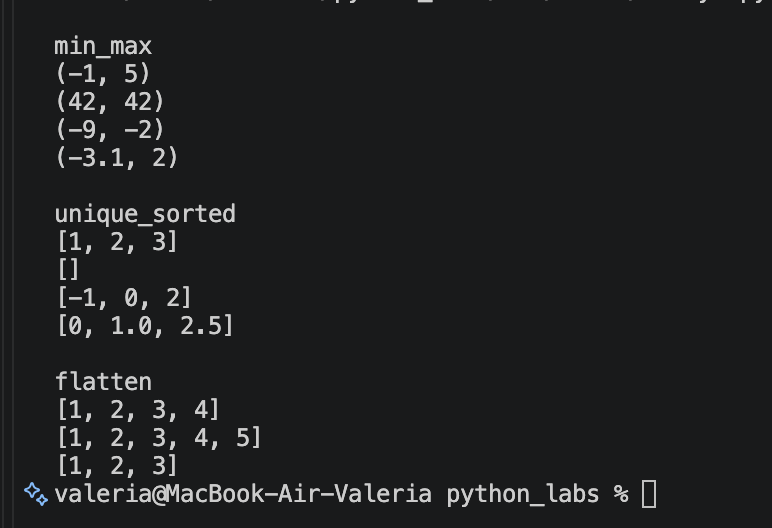
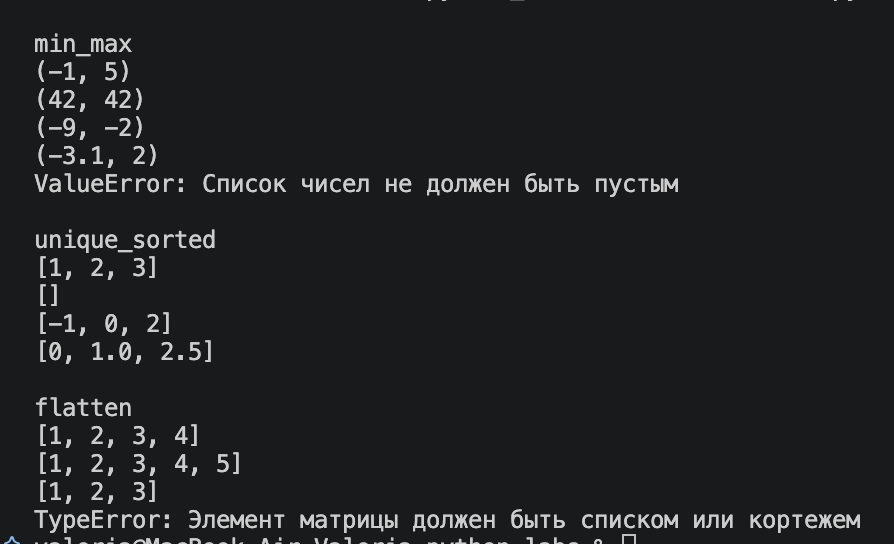
.

diff --git a/src/lab02/arrays.py b/src/lab02/arrays.py
@@ -1,13 +1,13 @@
 def min_max(nums: list[float | int]) -> tuple[float | int, float | int]:
     # Проверяем список на пустоту
-    if len(nums) == 0:
-        raise ValueError
+    if not nums:
+        raise ValueError("Список чисел не должен быть пустым")
 
     minimum = nums[0]
     maximum = nums[0]
 
-    # Ищем минимальное и максимальное значение
-    for x in nums:
+    # Ищем минимальное и максимальное значения
+    for x in nums[1:]:
         if x < minimum:
             minimum = x
         if x > maximum:
@@ -17,36 +17,34 @@ def min_max(nums: list[float | int]) -> tuple[float | int, float | int]:
 
 
 def unique_sorted(nums: list[float | int]) -> list[float | int]:
-    result = []  # Список для уникальных чисел
+    result = []
 
-    # Добавляем только неповторяющиеся числа
+    # Добавляем только уникальные числа
     for x in nums:
         if x not in result:
             result.append(x)
 
     # Сортируем список вручную
     for i in range(len(result)):
-        for j in range(i + 1, len(result)):
-            if result[i] > result[j]:
-                result[i], result[j] = result[j], result[i]
+        for j in range(len(result) - 1 - i):
+            if result[j] > result[j + 1]:
+                result[j], result[j + 1] = result[j + 1], result[j]
 
     return result
 
 
 def flatten(mat: list[list | tuple]) -> list:
-    result = []  # Новый список для элементов
+    result = []
 
-    # Проверяем каждую строку
+    # Проверяем каждую строку матрицы
     for row in mat:
         if not isinstance(row, (list, tuple)):
-            raise TypeError
+            raise TypeError("Элемент матрицы должен быть списком или кортежем")
 
-        # Добавляем элементы строки в общий список
         for x in row:
             result.append(x)
 
     return result
-
 
 print('\nmin_max')
 print(min_max([3, -1, 5, 5, 0]))
@@ -54,6 +52,10 @@ print(min_max([42]))
 print(min_max([-5, -2, -9]))
 print(min_max([1.5, 2, 2.0, -3.1]))
 
+try:
+    min_max([])
+except ValueError as e:
+    print(f"ValueError: {e}")
 
 print('\nunique_sorted')
 print(unique_sorted([3, 1, 2, 1, 3]))
@@ -61,8 +63,13 @@ print(unique_sorted([]))
 print(unique_sorted([-1, -1, 0, 2, 2]))
 print(unique_sorted([1.0, 1, 2.5, 2.5, 0]))
 
-
 print('\nflatten')
 print(flatten([[1, 2], [3, 4]]))
 print(flatten([[1, 2], (3, 4, 5)]))
 print(flatten([[1], [], [2, 3]]))
+
+try:
+    flatten([[1, 2], "ab"])
+except TypeError as e:
+    print(f"TypeError: {e}")
+

diff --git a/src/lab02/matrix.py b/src/lab02/matrix.py
@@ -58,14 +58,30 @@ print(transpose([[1], [2], [3]]))
 print(transpose([[1, 2], [3, 4]]))
 print(transpose([]))
 
+try:
+    transpose([[1, 2], [3]])
+except ValueError as e:
+    print(f"ValueError: {e}")
+
 
 print("\nrow_sums:")
 print(row_sums([[1, 2, 3], [4, 5, 6]]))
 print(row_sums([[-1, 1], [10, -10]]))
 print(row_sums([[0, 0], [0, 0]]))
 
+try:
+    row_sums([[1, 2], [3]])
+except ValueError as e:
+    print(f"ValueError: {e}")
+
+
 print("\ncol_sums:")
 print(col_sums([[1, 2, 3], [4, 5, 6]]))
 print(col_sums([[-1, 1], [10, -10]]))
 print(col_sums([[0, 0], [0, 0]]))
+
+try:
+    col_sums([[1, 2], [3]])
+except ValueError as e:
+    print(f"ValueError: {e}")
 

diff --git a/README.md b/README.md
@@ -1,43 +1,16 @@
-# Лабораторная работа №1
-## Задание 1
- ![1 задание](images/lab01/img01.png)
-  Определяется возраст человека через один год на основе введённых имени и текущего возраста.
-
-## Задание 2
- ![2 задание](images/lab01/img02.png)
-  Для двух введённых чисел находятся их общая сумма и среднее арифметическое.
-
-## Задание 3
- ![3 задание](images/lab01/img03.png) 
-  Рассчитывается конечная стоимость товара после применения скидки и добавления НДС.
-
-## Задание 4
- ![4 задание](images/lab01/img04.png)
-  Указанное количество минут преобразуется в соответствующее количество часов и минут.
-
-## Задание 5
- ![5 задание](images/lab01/img05.png)
- 
- Из введённого ФИО формируются инициалы, а также подсчитывается количество символов после удаления лишних пробелов.
-
-## Задание 6
- ![6 задание](images/lab01/img06.png)
- По данным участников определяется, сколько человек выбрали очное обучение, а сколько — заочное.
-
-
 # Лабораторная работа №2
 ## Задание 1 
 ```python 
 def min_max(nums: list[float | int]) -> tuple[float | int, float | int]:
     # Проверяем список на пустоту
-    if len(nums) == 0:
-        raise ValueError
+    if not nums:
+        raise ValueError("Список чисел не должен быть пустым")
 
     minimum = nums[0]
     maximum = nums[0]
 
-    # Ищем минимальное и максимальное значение
-    for x in nums:
+    # Ищем минимальное и максимальное значения
+    for x in nums[1:]:
         if x < minimum:
             minimum = x
         if x > maximum:
@@ -47,36 +20,34 @@ def min_max(nums: list[float | int]) -> tuple[float | int, float | int]:
 
 
 def unique_sorted(nums: list[float | int]) -> list[float | int]:
-    result = []  # Список для уникальных чисел
+    result = []
 
-    # Добавляем только неповторяющиеся числа
+    # Добавляем только уникальные числа
     for x in nums:
         if x not in result:
             result.append(x)
 
     # Сортируем список вручную
     for i in range(len(result)):
-        for j in range(i + 1, len(result)):
-            if result[i] > result[j]:
-                result[i], result[j] = result[j], result[i]
+        for j in range(len(result) - 1 - i):
+            if result[j] > result[j + 1]:
+                result[j], result[j + 1] = result[j + 1], result[j]
 
     return result
 
 
 def flatten(mat: list[list | tuple]) -> list:
-    result = []  # Новый список для элементов
+    result = []
 
-    # Проверяем каждую строку
+    # Проверяем каждую строку матрицы
     for row in mat:
         if not isinstance(row, (list, tuple)):
-            raise TypeError
+            raise TypeError("Элемент матрицы должен быть списком или кортежем")
 
-        # Добавляем элементы строки в общий список
         for x in row:
             result.append(x)
 
     return result
-
 
 print('\nmin_max')
 print(min_max([3, -1, 5, 5, 0]))
@@ -84,6 +55,10 @@ print(min_max([42]))
 print(min_max([-5, -2, -9]))
 print(min_max([1.5, 2, 2.0, -3.1]))
 
+try:
+    min_max([])
+except ValueError as e:
+    print(f"ValueError: {e}")
 
 print('\nunique_sorted')
 print(unique_sorted([3, 1, 2, 1, 3]))
@@ -91,11 +66,17 @@ print(unique_sorted([]))
 print(unique_sorted([-1, -1, 0, 2, 2]))
 print(unique_sorted([1.0, 1, 2.5, 2.5, 0]))
 
-
 print('\nflatten')
 print(flatten([[1, 2], [3, 4]]))
 print(flatten([[1, 2], (3, 4, 5)]))
 print(flatten([[1], [], [2, 3]]))
+
+try:
+    flatten([[1, 2], "ab"])
+except TypeError as e:
+    print(f"TypeError: {e}")
+
+
 ```
  ![1 задание](images/lab02/arrays01.png)
  
